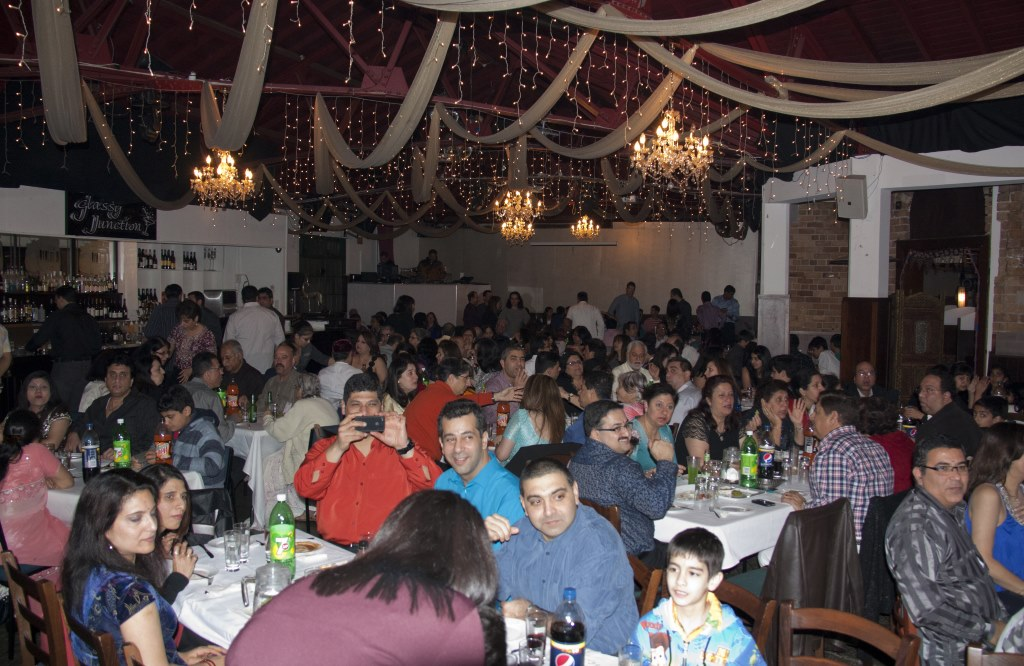
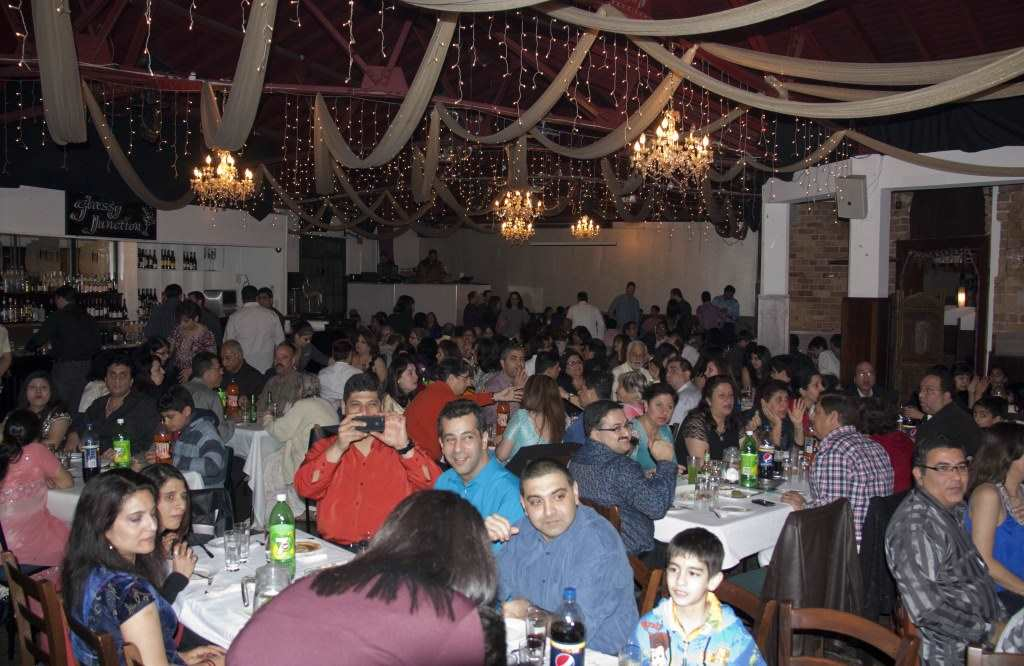
Added new fundraiser images, optimized some of the other images on the site

diff --git a/web/6wzyc/site/fundraising.php b/web/6wzyc/site/fundraising.php
@@ -10,9 +10,9 @@
     
     function getEventsForYear($year){
         $eventMap = array(
-        '2011' => array(), 
-        '2012'=> array('90817083633', '90816918213'), 
-        '2013'=> array('90817818123' ), 
+        '2011' => array('94524519098'), 
+        '2012'=> array('90817083633', '90816918213', '94524263638'), 
+        '2013'=> array('90817818123', '94525486933', '94525072628', '94524922628' ), 
         '2014'=> array(), 
         '2015'=> array());
     
